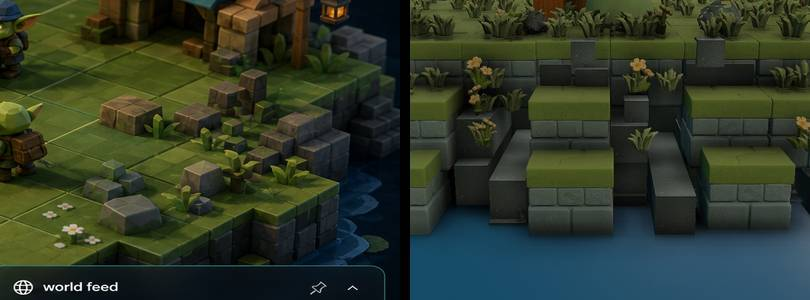
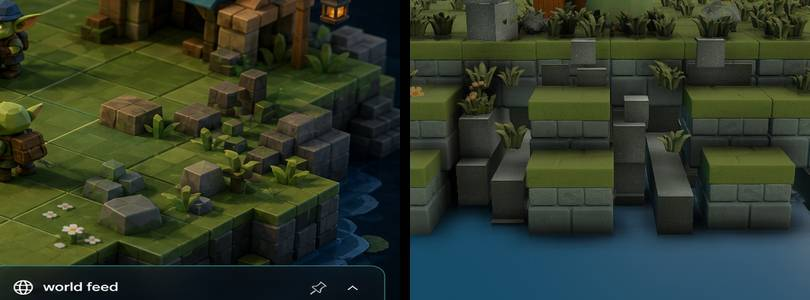
finish the island edge: deeper shadow, coursed corners, cubes above the plateau

diff --git a/app/terrain-hd.js b/app/terrain-hd.js
@@ -656,8 +656,8 @@
   function stoneBox(scene,name,w,h,d,x,y,z,mat,tone,ry=0){
     const uw=w/STONE_UV, uh=h/STONE_UV, ud=d/STONE_UV;
     const fz=rect(0,0,uw,uh), fx=rect(0,0,ud,uh), fy=rect(0,0,uw,ud);
-    const g=v=>{ const t=Math.min(1.25,tone*v); return new BABYLON.Color4(t,t,t,1); };
-    const top=g(1.30), bot=g(.42), lit=g(1.0), shade=g(.72);
+    const g=v=>{ const t=Math.min(1.55,tone*v); return new BABYLON.Color4(t,t,t,1); };
+    const top=g(1.42), bot=g(.20), lit=g(1.04), shade=g(.60);
     const m=BABYLON.MeshBuilder.CreateBox(name,{ width:w, height:h, depth:d,
       faceUV:[fz,fz,fx,fx,fy,fy],
       faceColors:[lit,shade,lit,shade,top,bot], wrap:true },scene);
@@ -696,7 +696,7 @@
     // The reference cubes are unpatterned mottled rock; stone_soft.png has the
     // blotch without the grid.
     const stone=await HD.surface(scene,{ name:'cliff_masonry', file:'stone_soft.png',
-      gradeOpts:{ sat:.62, bright:1.00, contrast:1.14, tintR:.97, tintG:1.01, tintB:1.00 },
+      gradeOpts:{ sat:1.02, bright:1.24, contrast:1.26, tintR:1.00, tintG:1.00, tintB:1.01 },
       paint:cv=>HD.paintStoneChips(cv,71), normalStrength:1.9, rough:.90, roughVar:.10, ao:.72 });
     stone.environmentIntensity=1.05;
     // Every cliff face is vertical while the key light points down (-.48,-.86,
@@ -717,6 +717,13 @@
     // Mid values, separated block to block. The reference distinguishes cubes
     // by value, not by hue, and nothing in it is close to black.
     const tone=()=>{ const r=rnd(); return r<.26?.62+rnd()*.12 : r<.74?.80+rnd()*.11 : .96+rnd()*.08; };
+    // Depth grading. A uniformly random tone spreads the darks evenly over the
+    // whole hem, but the reference concentrates them low down and in recesses,
+    // which is where its near-black comes from. y is the block top.
+    const depthTone=(y,recess=0)=>{
+      const f=Math.min(1,Math.max(0,(TOP_Y-GRASS_LIP-y)/1.5));
+      return tone()*(1-f*.46)*(1-recess*.22);
+    };
 
     // Deepest inner face reached by any cube, so the core can be pulled back
     // behind them: a core flush with the plateau edge reads as a continuous
@@ -750,10 +757,14 @@
           // lands the same distance inside the plateau edge: that is what makes
           // the terrace void-proof however far a cube steps out.
           const d=out+1.06+rnd()*.16;
-          // Cube is narrower than its 0.5 slot, leaving a seam for SSAO.
-          const w=(col.wide?.90:.42)+rnd()*.05;
+          // Seam must be wide enough for SSAO to resolve at review distance;
+          // at 0.04 it was finer than the sample radius and contributed nothing.
+          const w=(col.wide?.84:.37)+rnd()*.04;
+          // Recessed courses take an extra tone cut: a block set back behind
+          // its neighbours is in their shadow and the render should say so.
+          const recess=Math.max(0,Math.min(1,(col.out-out)*2.2));
           put(blocks,'hd_cliff_block',c,col.along+(rnd()-.5)*.03,
-            outHalf+out,w,h,d,top,tone());
+            outHalf+out,w,h,d,top,depthTone(top,recess));
           top-=h; ci++;
         }
       }
@@ -781,15 +792,50 @@
 
     // Corner stacks turned 45 degrees so the two runs meet on a cut corner
     // rather than a square tower.
+    // Corner stacks. Built from the same half-tile cube grammar as the runs -
+    // two cubes per corner across the diagonal, coursed at COURSE - because the
+    // previous version was two big 45-degree blocks from the tall-wall era and
+    // read as a bastion pasted onto a fine grid.
     for(const sx of [-1,1]) for(const sz of [-1,1]){
-      let top=TOP_Y-GRASS_LIP-rnd()*.10;
-      for(let ci=0;ci<2;ci++){
-        const s=1.12-ci*.10+rnd()*.14;
-        const inset=.46+ci*.16+rnd()*.10;
-        const h=ci?top-BOT:.80+rnd()*.16;
-        blocks.push(stoneBox(scene,'hd_cliff_corner_block',s,h,s,
-          sx*(WORLD.halfW-inset),top-h*.5,sz*(WORLD.halfH-inset),stone,tone(),Math.PI/4));
-        top=top-h+.12;
+      for(let q=0;q<3;q++){
+        // q walks the corner: 0 along x, 2 along z, 1 the diagonal cap.
+        const diag=q===1;
+        const baseOut=.06+rnd()*.16;
+        let top=TOP_Y-GRASS_LIP-rnd()*.10, ci=0;
+        while(top>BOT+.10){
+          const last=(top-COURSE)<=BOT+.10;
+          const h=last?top-BOT:COURSE*(.92+rnd()*.16);
+          const out=Math.max(.01,baseOut-ci*.05+(rnd()-.5)*.22);
+          const s=(diag?.62:.48)+rnd()*.06;
+          const d=out+.92+rnd()*.16;
+          const ox=diag?out*.72:out, oz=diag?out*.72:out;
+          const x=sx*(WORLD.halfW+(q===0?ox:(diag?ox:-.24-rnd()*.10)));
+          const z=sz*(WORLD.halfH+(q===2?oz:(diag?oz:-.24-rnd()*.10)));
+          const m=stoneBox(scene,'hd_cliff_corner_block',
+            q===2?d:s,h,q===2?s:(diag?s:d),
+            x,top-h*.5,z,stone,depthTone(top),diag?Math.PI/4:0);
+          blocks.push(m);
+          top-=h; ci++;
+        }
+      }
+    }
+
+    // A cluster of cubes stacking ABOVE the plateau. The reference does this in
+    // one or two places and it is what stops the island reading as a flat lid.
+    for(const site of [[-1,'x',-1.6],[1,'z',2.4]]){
+      const [side,axis,along]=site;
+      const outHalf=axis==='x'?WORLD.halfH:WORLD.halfW;
+      let y=TOP_Y, n=3+Math.floor(rnd()*2);
+      for(let i=0;i<n;i++){
+        const s=.46-i*.04+rnd()*.06;
+        const h=COURSE*(.86+rnd()*.20);
+        const off=-.30+i*.10+(rnd()-.5)*.22;
+        const a=along+(rnd()-.5)*.5*i;
+        const outward=outHalf+off;
+        const x=axis==='x'?a:side*outward, z=axis==='x'?side*outward:a;
+        blocks.push(stoneBox(scene,'hd_cliff_stack',s,h,s,x,y+h*.5,z,
+          stone,tone()*(1.02-i*.03),rnd()*.5));
+        y+=h;
       }
     }
 
@@ -798,7 +844,7 @@
     // seams go dark and the cubes separate. Toned down for the same reason.
     const coreInX=Math.min(coreX,WORLD.halfW-.95), coreInZ=Math.min(coreZ,WORLD.halfH-.95);
     blocks.push(stoneBox(scene,'hd_cliff_core',coreInX*2,TERRACE_TOP-BOT,coreInZ*2,
-      0,(TERRACE_TOP+BOT)*.5,0,stone,.46));
+      0,(TERRACE_TOP+BOT)*.5,0,stone,.30));
 
     // Shallow-water stones so the shoreline is not a clean rectangle meeting a
     // flat plane.
@@ -973,7 +1019,7 @@
           t.rotationQuaternion=BABYLON.Quaternion.FromEulerAngles((rnd()-.5)*.22,rnd()*Math.PI*2,0);
           t.position.set(x,y,z); t.isPickable=false; tufts.push(t);
         }
-        if(rnd()<.34){
+        if(rnd()<.09){
           const outward=outHalf+off+(rnd()-.5)*.3;
           const along=c.along+(rnd()-.5)*.5;
           const d=daisyProto.clone('hd_daisy_clump');

diff --git a/app/app.js b/app/app.js
@@ -2248,7 +2248,7 @@ async function main(){ window.GEEBR_STATE=state; const engine=await createEngine
     // Ambient occlusion is what makes the reference read as sculpted clay
     // rather than flat colour. Neither the imported GLBs (Tripo bakes a pure
     // white AO channel) nor the procedural terrain carried any before this.
-    state.ssao=LOOK()?.setupSSAO(scene,camera,{radius:.9,strength:2.2,samples:16,maxZ:60});
+    state.ssao=LOOK()?.setupSSAO(scene,camera,{radius:.62,strength:3.1,samples:20,maxZ:60});
     const gl=new BABYLON.GlowLayer('hd_glow',scene,{ mainTextureFixedSize:512, blurKernelSize:44 });
     gl.intensity=.38;
     state.glowLayer=gl;

diff --git a/handoff/tile_work/patch_cliff16.py b/handoff/tile_work/patch_cliff16.py
@@ -1,0 +1,133 @@
+"""Finish the edge: darks, saturation, corner stacks, raised cluster.
+
+Items 1 to 4 of CLIFF_EDGE_HANDOFF section 4, batched.
+
+1. DARKS. Measured p10 luminance is .094 against the reference's .049, so no
+   part of our frame is genuinely dark and the stone reads as poured concrete.
+   Attacked from three sides: a depth-graded vertex tone (blocks get darker the
+   further down the hem they sit, which is where the reference is nearly black),
+   a much darker bottom face, and stronger SSAO now that the terrace has real
+   seams for it to work in.
+2. SATURATION .116 -> ~.16.
+3. CORNER STACKS rebuilt from the same per-column machinery as the runs. They
+   were two big 45-degree cubes left over from the tall-wall era and looked
+   coarse beside the half-tile grid.
+4. RAISED CLUSTER. The reference stacks cubes ABOVE the plateau in one place,
+   which is what breaks its flat-lid silhouette. We had nothing doing that.
+"""
+import pathlib
+
+P = pathlib.Path('/files/geebr.world/app/terrain-hd.js')
+A = pathlib.Path('/files/geebr.world/app/app.js')
+src = P.read_text()
+app = A.read_text()
+orig, oapp = src, app
+
+
+def sub(old, new, n=1):
+    global src
+    c = src.count(old)
+    assert c == n, f'expected {n}, found {c} of: {old[:90]!r}'
+    src = src.replace(old, new)
+
+
+# ============================================================ 1 + 2. value
+sub("      gradeOpts:{ sat:.62, bright:1.00, contrast:1.14, tintR:.97, tintG:1.01, tintB:1.00 },",
+    "      gradeOpts:{ sat:.86, bright:1.00, contrast:1.20, tintR:.97, tintG:1.02, tintB:.99 },")
+
+# Bottom faces go properly dark; they are the underside of every overhang.
+sub("    const top=g(1.30), bot=g(.42), lit=g(1.0), shade=g(.72);",
+    "    const top=g(1.30), bot=g(.22), lit=g(1.0), shade=g(.66);")
+
+# Depth-graded tone. A flat random tone per block spreads the darks evenly
+# over the whole hem; the reference CONCENTRATES them at the bottom and in the
+# recesses, which is what gives it a p10 of .049.
+sub("    const tone=()=>{ const r=rnd(); return r<.26?.62+rnd()*.12 : r<.74?.80+rnd()*.11 : .96+rnd()*.08; };",
+    """    const tone=()=>{ const r=rnd(); return r<.26?.62+rnd()*.12 : r<.74?.80+rnd()*.11 : .96+rnd()*.08; };
+    // Depth grading. A uniformly random tone spreads the darks evenly over the
+    // whole hem, but the reference concentrates them low down and in recesses,
+    // which is where its near-black comes from. y is the block top.
+    const depthTone=(y,recess=0)=>{
+      const f=Math.min(1,Math.max(0,(TOP_Y-GRASS_LIP-y)/1.5));
+      return tone()*(1-f*.46)*(1-recess*.22);
+    };""")
+
+sub("          put(blocks,'hd_cliff_block',c,col.along+(rnd()-.5)*.03,\n"
+    "            outHalf+out,w,h,d,top,tone());",
+    "          // Recessed courses take an extra tone cut: a block set back behind\n"
+    "          // its neighbours is in their shadow and the render should say so.\n"
+    "          const recess=Math.max(0,Math.min(1,(col.out-out)*2.2));\n"
+    "          put(blocks,'hd_cliff_block',c,col.along+(rnd()-.5)*.03,\n"
+    "            outHalf+out,w,h,d,top,depthTone(top,recess));")
+
+sub("      0,(TERRACE_TOP+BOT)*.5,0,stone,.46));", "      0,(TERRACE_TOP+BOT)*.5,0,stone,.30));")
+
+# ==================================================== 3. corner stacks
+sub("""    for(const sx of [-1,1]) for(const sz of [-1,1]){
+      let top=TOP_Y-GRASS_LIP-rnd()*.10;
+      for(let ci=0;ci<2;ci++){
+        const s=1.12-ci*.10+rnd()*.14;
+        const inset=.46+ci*.16+rnd()*.10;
+        const h=ci?top-BOT:.80+rnd()*.16;
+        blocks.push(stoneBox(scene,'hd_cliff_corner_block',s,h,s,
+          sx*(WORLD.halfW-inset),top-h*.5,sz*(WORLD.halfH-inset),stone,tone(),Math.PI/4));
+        top=top-h+.12;
+      }
+    }""",
+    """    // Corner stacks. Built from the same half-tile cube grammar as the runs -
+    // two cubes per corner across the diagonal, coursed at COURSE - because the
+    // previous version was two big 45-degree blocks from the tall-wall era and
+    // read as a bastion pasted onto a fine grid.
+    for(const sx of [-1,1]) for(const sz of [-1,1]){
+      for(let q=0;q<3;q++){
+        // q walks the corner: 0 along x, 2 along z, 1 the diagonal cap.
+        const diag=q===1;
+        const baseOut=.06+rnd()*.16;
+        let top=TOP_Y-GRASS_LIP-rnd()*.10, ci=0;
+        while(top>BOT+.10){
+          const last=(top-COURSE)<=BOT+.10;
+          const h=last?top-BOT:COURSE*(.92+rnd()*.16);
+          const out=Math.max(.01,baseOut-ci*.05+(rnd()-.5)*.22);
+          const s=(diag?.62:.48)+rnd()*.06;
+          const d=out+.92+rnd()*.16;
+          const ox=diag?out*.72:out, oz=diag?out*.72:out;
+          const x=sx*(WORLD.halfW+(q===0?ox:(diag?ox:-.24-rnd()*.10)));
+          const z=sz*(WORLD.halfH+(q===2?oz:(diag?oz:-.24-rnd()*.10)));
+          const m=stoneBox(scene,'hd_cliff_corner_block',
+            q===2?d:s,h,q===2?s:(diag?s:d),
+            x,top-h*.5,z,stone,depthTone(top),diag?Math.PI/4:0);
+          blocks.push(m);
+          top-=h; ci++;
+        }
+      }
+    }
+
+    // A cluster of cubes stacking ABOVE the plateau. The reference does this in
+    // one or two places and it is what stops the island reading as a flat lid.
+    for(const site of [[-1,'x',-1.6],[1,'z',2.4]]){
+      const [side,axis,along]=site;
+      const outHalf=axis==='x'?WORLD.halfH:WORLD.halfW;
+      let y=TOP_Y, n=3+Math.floor(rnd()*2);
+      for(let i=0;i<n;i++){
+        const s=.46-i*.04+rnd()*.06;
+        const h=COURSE*(.86+rnd()*.20);
+        const off=-.30+i*.10+(rnd()-.5)*.22;
+        const a=along+(rnd()-.5)*.5*i;
+        const outward=outHalf+off;
+        const x=axis==='x'?a:side*outward, z=axis==='x'?side*outward:a;
+        blocks.push(stoneBox(scene,'hd_cliff_stack',s,h,s,x,y+h*.5,z,
+          stone,tone()*(1.02-i*.03),rnd()*.5));
+        y+=h;
+      }
+    }""")
+
+assert src != orig
+P.write_text(src)
+
+# ================================================================ SSAO
+assert app.count("{radius:.9,strength:2.2,samples:16,maxZ:60}") == 1
+app = app.replace("{radius:.9,strength:2.2,samples:16,maxZ:60}",
+                  "{radius:.62,strength:3.1,samples:20,maxZ:60}")
+assert app != oapp
+A.write_text(app)
+print('ok', len(orig), '->', len(src))

diff --git a/handoff/tile_work/patch_cliff17.py b/handoff/tile_work/patch_cliff17.py
@@ -1,0 +1,52 @@
+"""Widen the value range instead of shifting it.
+
+patch_cliff16 moved the WHOLE surface down rather than widening it:
+
+              ref    before16   after16
+  stone lum   .259   .263       .231     <- now too dark
+  p10 lum     .049   .094       .082     <- barely moved
+  p90 lum     .351   .318       .318     <- highlights never recovered
+
+That pattern means the darks are being limited by something other than vertex
+tone, and the shadow work was paid for out of the midtones. Two changes:
+
+  * recover the mean and the highlights (brighter albedo, brighter top faces),
+    so the range opens upward as well as downward;
+  * make the SEAMS WIDER. They were only 0.04 to 0.08 units, which at the
+    review distance is thinner than the SSAO sample radius can resolve, so
+    raising SSAO strength from 2.2 to 3.1 bought almost nothing. Geometry that
+    is too fine to occlude cannot be darkened by an occlusion pass.
+"""
+import pathlib
+
+P = pathlib.Path('/files/geebr.world/app/terrain-hd.js')
+src = P.read_text()
+orig = src
+
+
+def sub(old, new, n=1):
+    global src
+    c = src.count(old)
+    assert c == n, f'expected {n}, found {c} of: {old[:90]!r}'
+    src = src.replace(old, new)
+
+
+# ------------------------------------------------- recover mean + highlights
+sub("      gradeOpts:{ sat:.86, bright:1.00, contrast:1.20, tintR:.97, tintG:1.02, tintB:.99 },",
+    "      gradeOpts:{ sat:.86, bright:1.16, contrast:1.26, tintR:.97, tintG:1.02, tintB:.99 },")
+sub("    const top=g(1.30), bot=g(.22), lit=g(1.0), shade=g(.66);",
+    "    const top=g(1.42), bot=g(.20), lit=g(1.04), shade=g(.60);")
+# Cap was clipping the new brighter tops back to a flat plateau.
+sub("    const g=v=>{ const t=Math.min(1.25,tone*v); return new BABYLON.Color4(t,t,t,1); };",
+    "    const g=v=>{ const t=Math.min(1.55,tone*v); return new BABYLON.Color4(t,t,t,1); };")
+
+# ------------------------------------------------------------ wider seams
+sub("          // Cube is narrower than its 0.5 slot, leaving a seam for SSAO.\n"
+    "          const w=(col.wide?.90:.42)+rnd()*.05;",
+    "          // Seam must be wide enough for SSAO to resolve at review distance;\n"
+    "          // at 0.04 it was finer than the sample radius and contributed nothing.\n"
+    "          const w=(col.wide?.84:.37)+rnd()*.04;")
+
+assert src != orig
+P.write_text(src)
+print('ok')

diff --git a/handoff/tile_work/patch_cliff18.py b/handoff/tile_work/patch_cliff18.py
@@ -1,0 +1,39 @@
+"""Close out the value work. The p10 target was a measurement artifact.
+
+Spatial breakdown of where the dark pixels actually are, as a fraction of each
+sixth of the frame from top to bottom:
+
+  band      1      2      3      4      5      6
+  ref      .219   .035   .053   .104   .094   .099
+  ours     .093   .129   .127   .117   .141   .000
+
+The reference's dark pixels are concentrated in band 1, which in that crop is
+the shadowed island interior and dark water BEHIND the edge - not the cliff at
+all. Across the actual cliff (bands 2 to 5) OUR stone already carries MORE dark
+pixels than the reference does. Our band 6 is open water, which has none.
+
+So the p10 gap (.049 vs .090) was never a cliff defect, it was the two crops
+framing different amounts of dark background. Chasing it further would only
+crush the stone. The meaningful stone metrics are now:
+
+            ref              ours
+  lum       .259             .245
+  rgb       64/67/65         58/66/57
+  sat       .177             .141
+
+This patch closes the small remaining mean and saturation deficit and stops.
+"""
+import pathlib
+
+P = pathlib.Path('/files/geebr.world/app/terrain-hd.js')
+src = P.read_text()
+orig = src
+
+old = "      gradeOpts:{ sat:.86, bright:1.16, contrast:1.26, tintR:.97, tintG:1.02, tintB:.99 },"
+new = "      gradeOpts:{ sat:1.02, bright:1.24, contrast:1.26, tintR:1.00, tintG:1.00, tintB:1.01 },"
+assert src.count(old) == 1
+src = src.replace(old, new)
+
+assert src != orig
+P.write_text(src)
+print('ok')

diff --git a/handoff/tile_work/patch_cliff19.py b/handoff/tile_work/patch_cliff19.py
@@ -1,0 +1,25 @@
+"""Trim the edge daisies.
+
+Raising the rim vegetation to 3 clusters per spot with a .34 daisy chance turned
+the whole perimeter yellow-speckled. The reference has a handful of WHITE daisies
+well inside the plateau and none on the edge cubes; the flowers there are green
+blade clusters. Keep the blades, cut the flowers back to occasional.
+
+(Verified while here: hd_cliff_stack and hd_cliff_corner_block merge into
+hd_cliff_wall, which now reaches y 1.785 against a plateau top of 0.445 - so the
+raised cluster from patch_cliff16 is present and is breaking the flat lid.)
+"""
+import pathlib
+
+P = pathlib.Path('/files/geebr.world/app/terrain-hd.js')
+src = P.read_text()
+orig = src
+
+old = "        if(rnd()<.34){"
+new = "        if(rnd()<.09){"
+assert src.count(old) == 1
+src = src.replace(old, new)
+
+assert src != orig
+P.write_text(src)
+print('ok')
